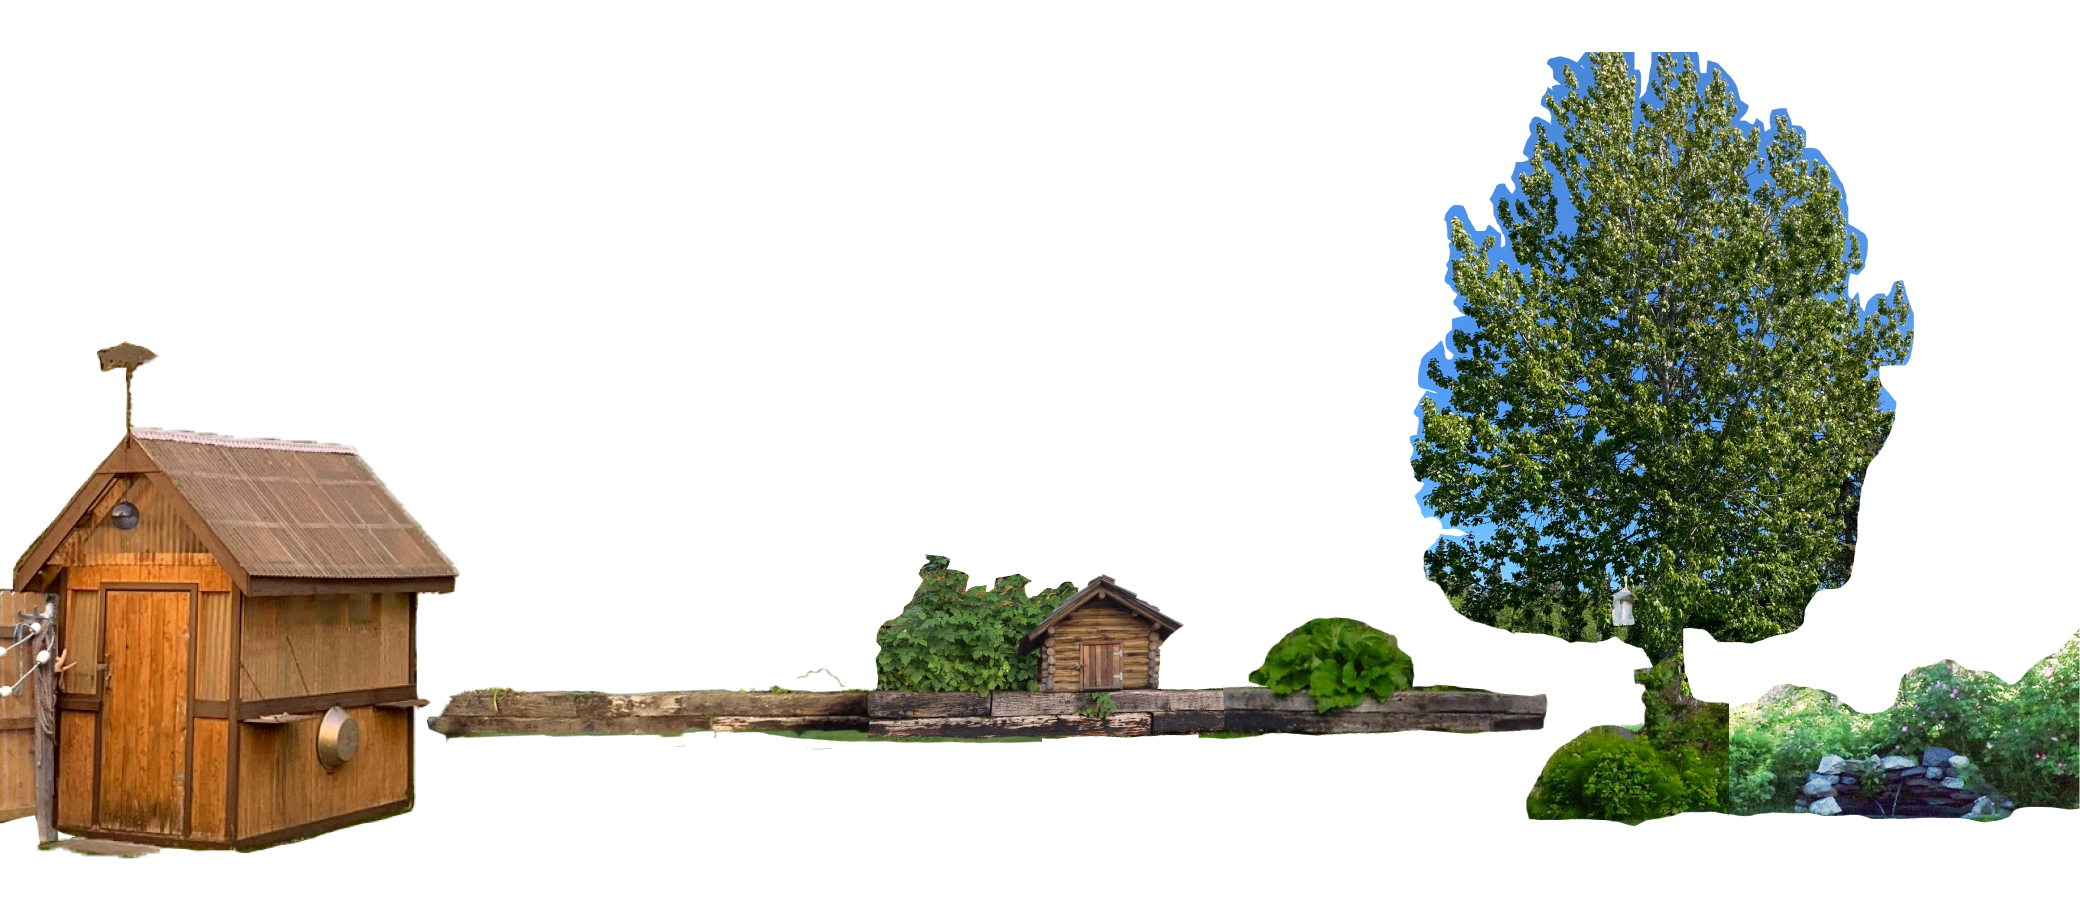
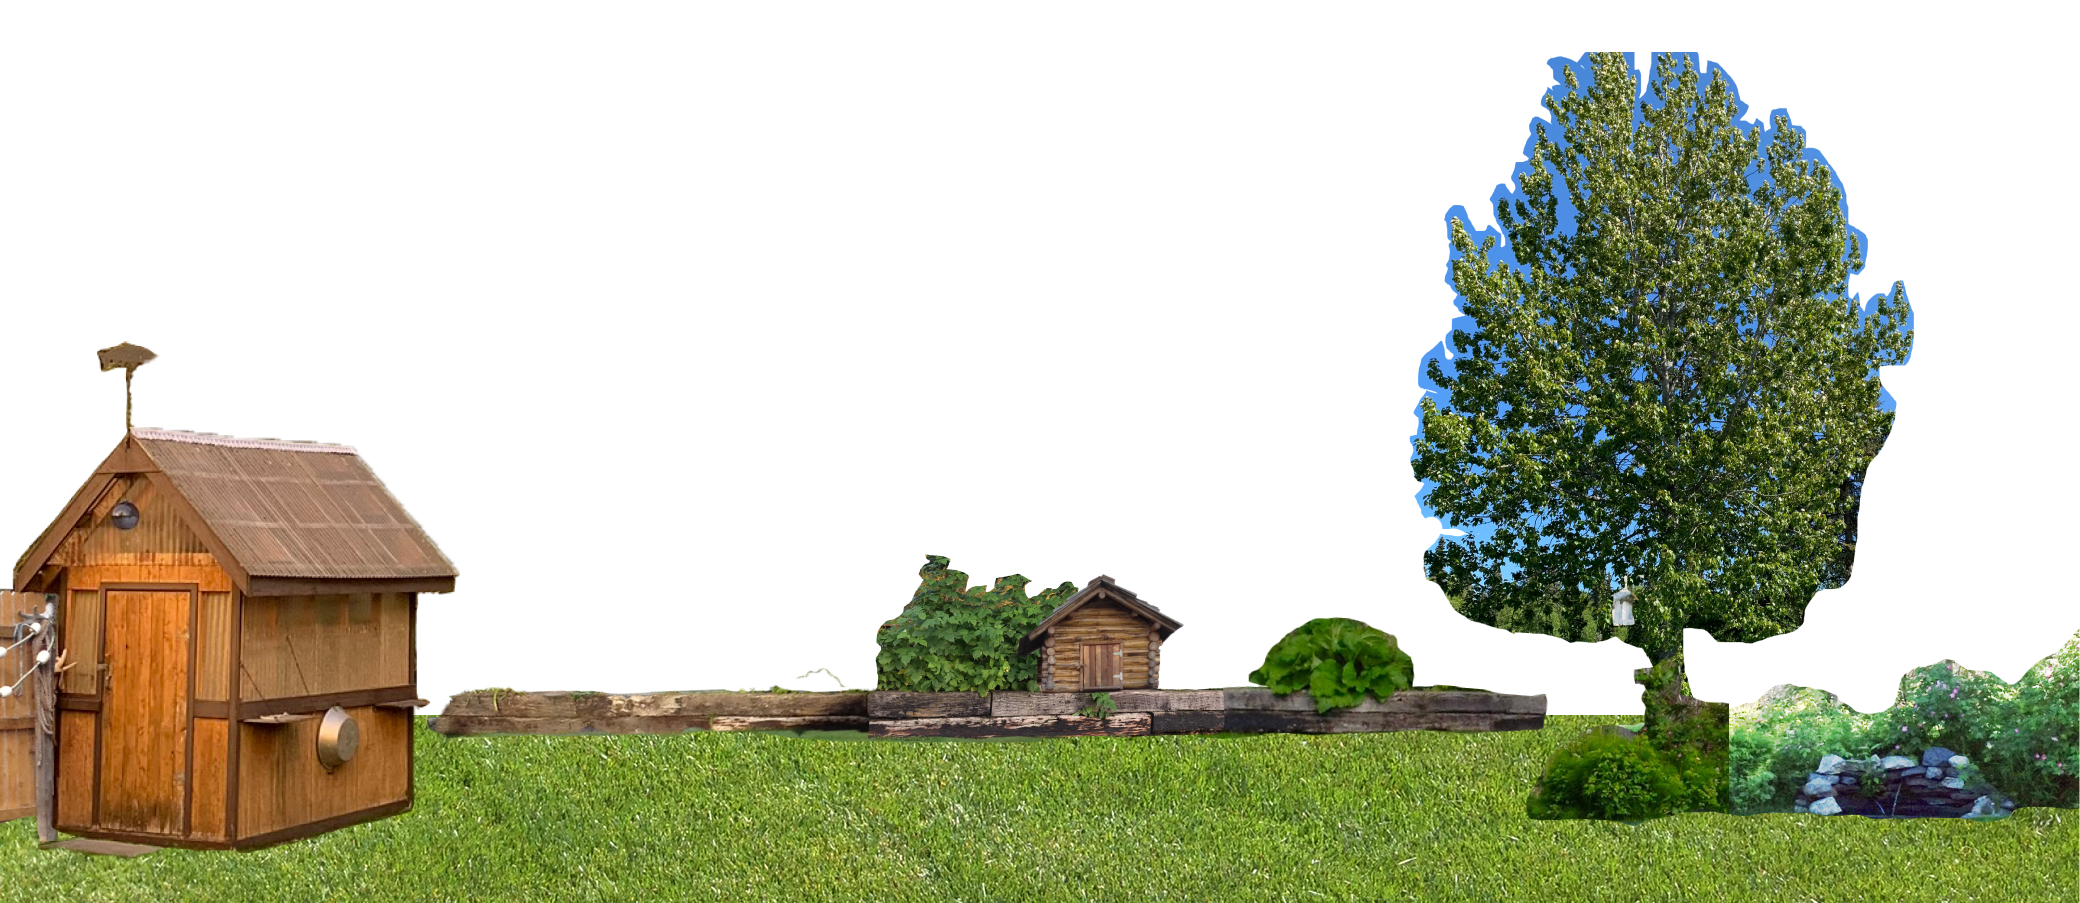
Modify images

Changed region(s): [[0.0, 0.7752, 1.0, 1.0]]

diff --git a/index.html b/index.html
@@ -54,11 +54,10 @@
 
   </div>
 
-  <!-- for demo -->
-  <main class="wrap">
+  <!-- <main class="wrap">
     <h1>Demo of Firewatch-style SVG parallax landscape</h1>
     <p>You can find out more info about this at <a href="https://alistairshepherd.uk/writing/parallax-svg-landscape-1/">alistairshepherd.uk/writing/parallax-landscape-1/</a>.
-  </main>
+  </main> -->
 
 </body>
 <script type="text/javascript" src="js/script.js"></script>

diff --git a/css/style.css b/css/style.css
@@ -36,11 +36,8 @@ body {
 }
 
 .wrap {
-  margin: 5rem auto;
-  max-width: 70rem;
-  padding-left: 1rem;
-  padding-right: 1rem;
-  position: relative;
+  margin-top: -10%;
+  background-image: url("../img/grass.png");
 }
 
 /*# sourceMappingURL=style.css.map */

diff --git a/scss/style.scss b/scss/style.scss
@@ -36,9 +36,6 @@ body {
 }
 
 .wrap {
-  margin: 5rem auto;
-  max-width: 70rem;
-  padding-left: 1rem;
-  padding-right: 1rem;
-  position: relative;
+  margin-top: -10%;
+  background-image: url("../img/grass.png");
 }
